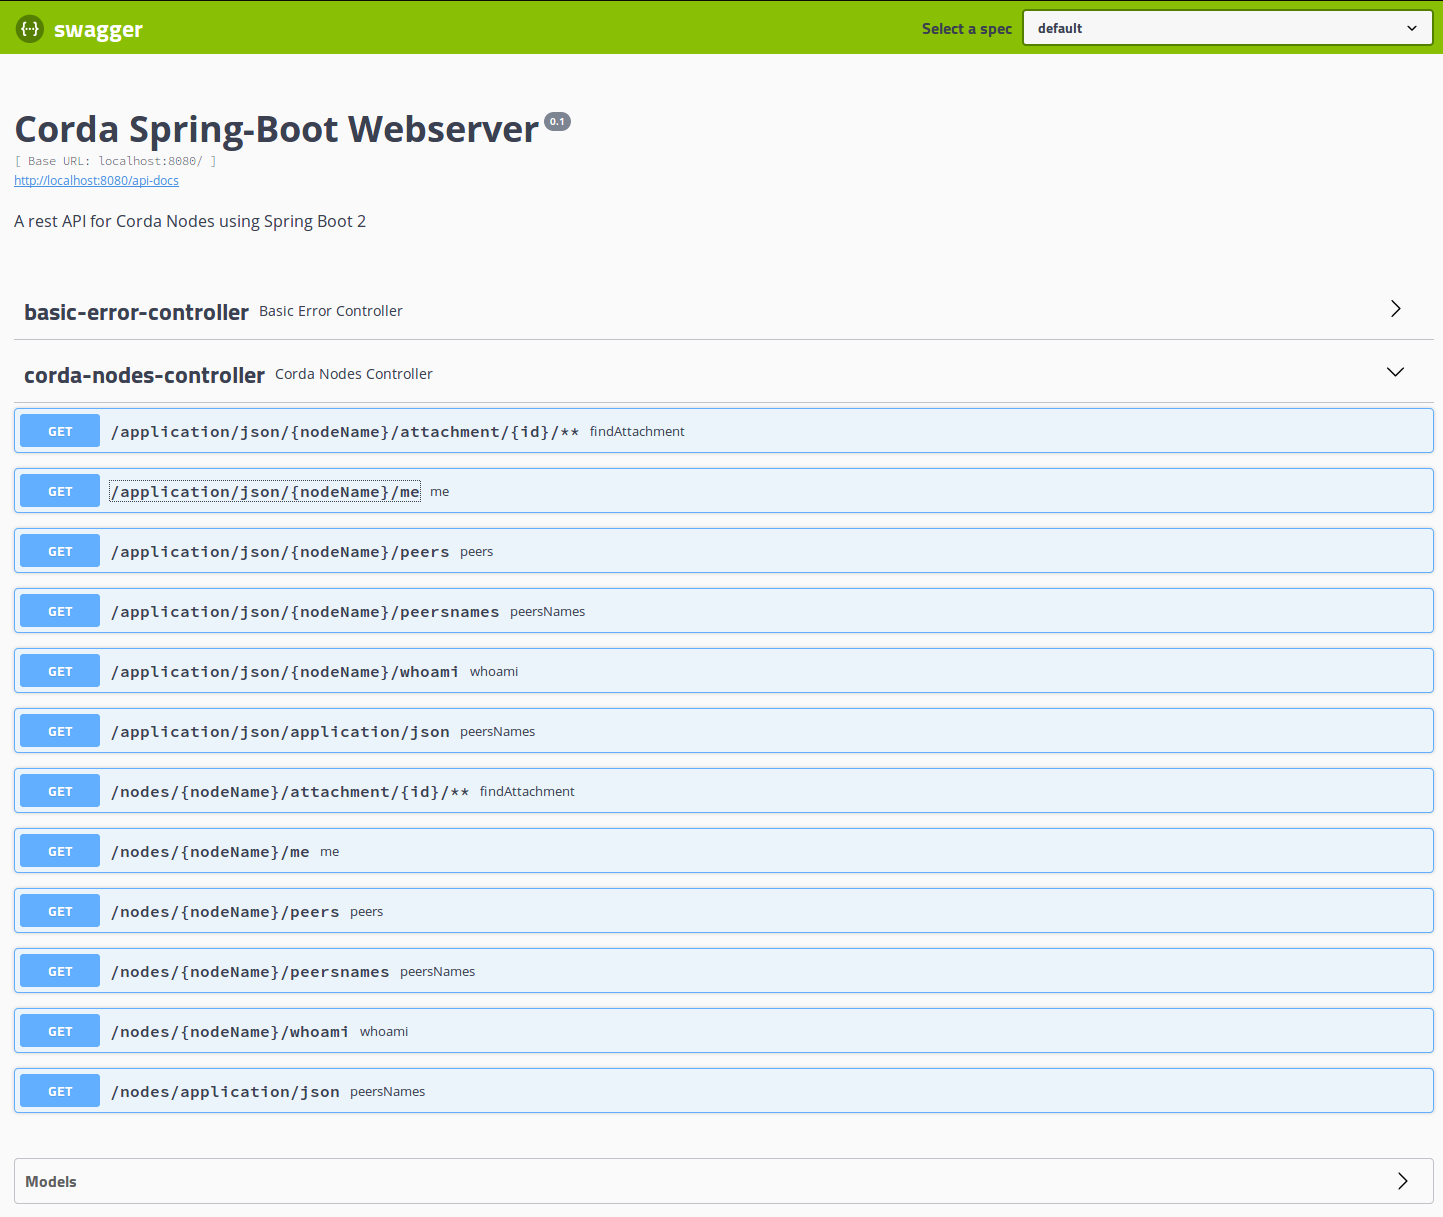
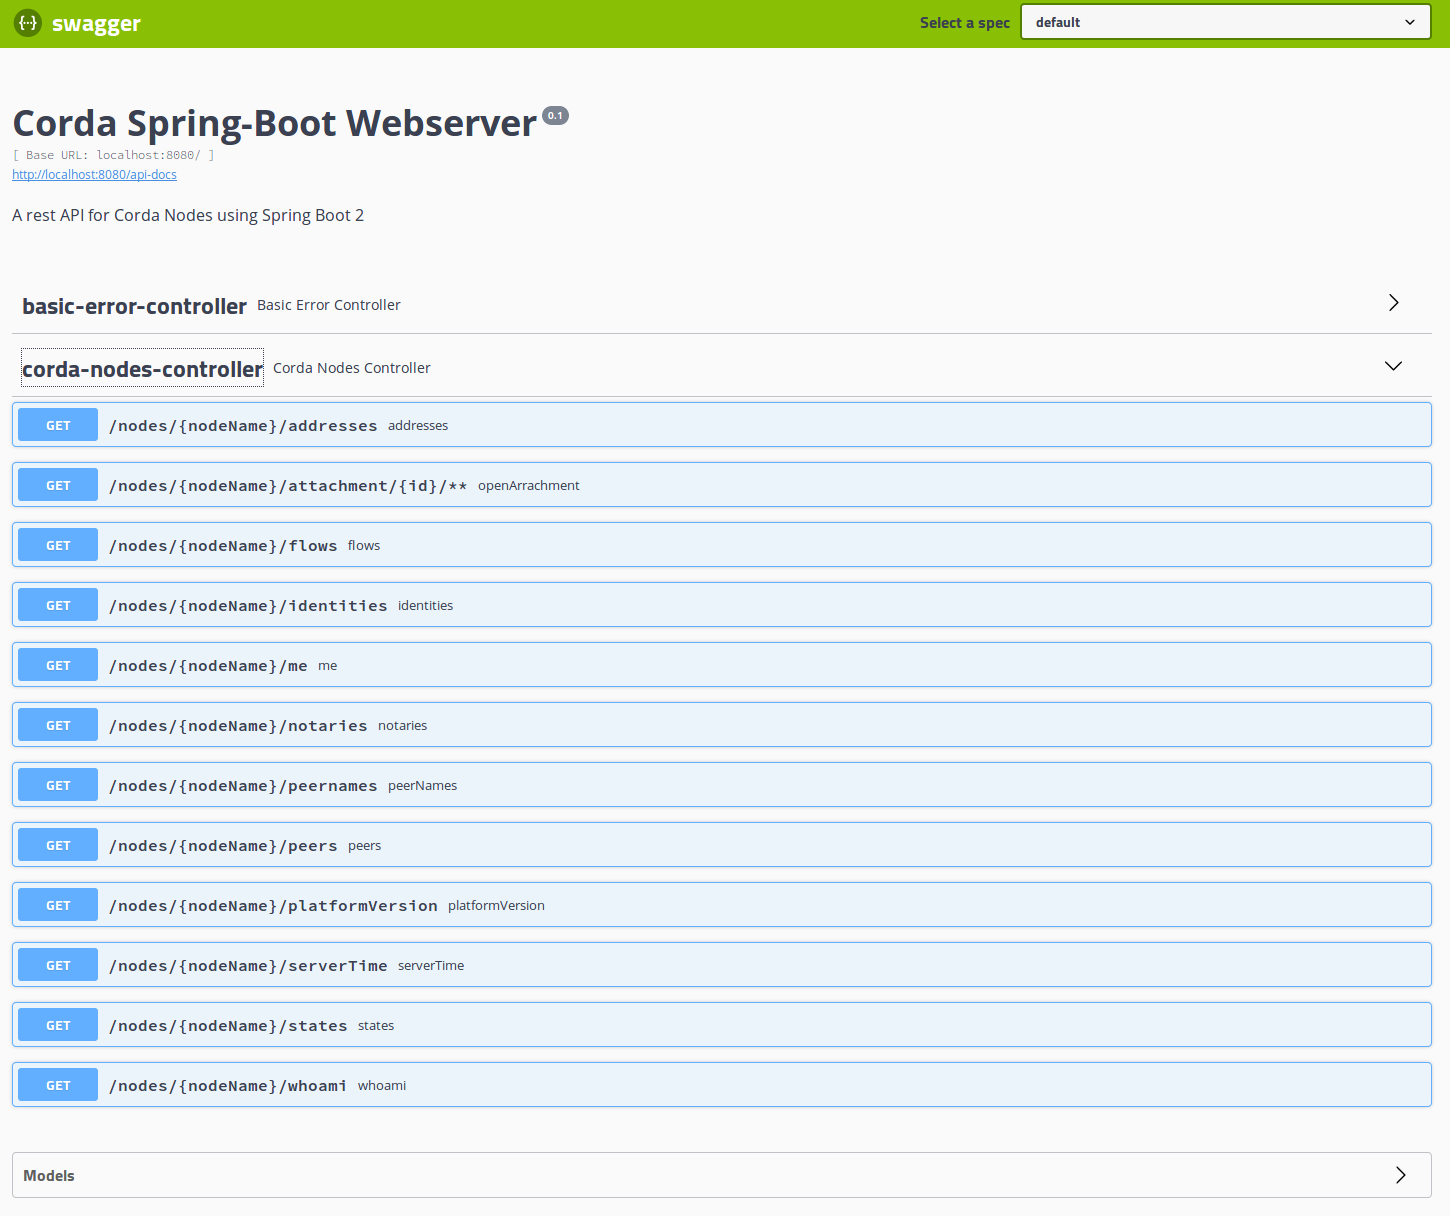
0.13

Changed region(s): [[0.0, 0.25, 0.9979, 1.0], [0.0, 0.0, 1.0, 0.0625], [0.0, 0.0938, 0.4054, 0.1875]]

diff --git a/corda-webserver-spring-boot/src/test/kotlin/com/github/manosbatsis/corda/webserver/spring/MultiNodeIntegrationTest.kt b/corda-webserver-spring-boot/src/test/kotlin/com/github/manosbatsis/corda/webserver/spring/MultiNodeIntegrationTest.kt
@@ -1,14 +1,18 @@
 package com.github.manosbatsis.corda.webserver.spring
 
 import com.github.manosbatsis.corda.spring.beans.CordaNodeService
+import net.corda.core.identity.Party
+import net.corda.core.utilities.NetworkHostAndPort
 import org.junit.jupiter.api.Assertions.assertNotNull
 import org.junit.jupiter.api.Test
 import org.junit.jupiter.api.extension.ExtendWith
 import org.slf4j.LoggerFactory
 import org.springframework.beans.factory.annotation.Autowired
+import org.springframework.beans.factory.annotation.Qualifier
 import org.springframework.boot.test.context.SpringBootTest
 import org.springframework.boot.test.web.client.TestRestTemplate
 import org.springframework.test.context.junit.jupiter.SpringExtension
+import kotlin.test.assertTrue
 
 @SpringBootTest(webEnvironment = SpringBootTest.WebEnvironment.RANDOM_PORT)
 @ExtendWith(SpringExtension::class)
@@ -20,11 +24,43 @@ class MultiNodeIntegrationTest(@Autowired val restTemplate: TestRestTemplate) {
     @Autowired
     lateinit var services: Map<String, CordaNodeService>
 
+    @Autowired
+    @Qualifier("partyANodeService")
+    lateinit var service: CordaNodeService
+
+    @Test
+    fun `Can inject services`() {
+        assertNotNull(this.services)
+        logger.info("Auto-configured RESTful services for Corda nodes:: {}", this.services.keys)
+        assertTrue(this.services.keys.isNotEmpty())
+    }
+
     @Test
     fun `Can retreive node identity`() {
-        logger.info("Auto-configured RESTful services for Corda nodes:: {}", this.services.keys)
-        val service = if (this.services.keys.isNotEmpty()) this.services.get(services.keys.first()) else null
-        assertNotNull(service)
+        val party = service.getMyIdentity()
+        logger.info("My identity: {}", party)
+        assertNotNull(service.getMyIdentity())
+    }
+
+    @Test
+    fun `Can retreive notaries`() {
+        val notaries: List<Party> = service.notaries()
+        logger.info("Notaries: {}", notaries)
+        assertNotNull(notaries)
+    }
+
+    @Test
+    fun `Can retreive flows`() {
+        val flows: List<String> = service.flows()
+        logger.info("Flows: {}", flows)
+        assertNotNull(flows)
+    }
+
+    @Test
+    fun `Can retreive addresses`() {
+        val addresses: List<NetworkHostAndPort> = service.addresses()
+        logger.info("Addresses: {}", addresses)
+        assertNotNull(addresses)
     }
 
 }

diff --git a/spring-corda-beans/src/main/kotlin/com/github/manosbatsis/corda/spring/beans/CordaNodesController.kt b/spring-corda-beans/src/main/kotlin/com/github/manosbatsis/corda/spring/beans/CordaNodesController.kt
@@ -42,7 +42,7 @@ open class CordaNodesController {
     }
 
     fun getService(nodeName: String): CordaNodeService =
-            this.services.get(nodeName) ?: throw IllegalArgumentException("Node not found: $nodeName")
+            this.services.get("${nodeName}NodeService") ?: throw IllegalArgumentException("Node not found: $nodeName")
 
     /** Returns the node's name. */
     @GetMapping("{nodeName}/me")
@@ -61,7 +61,7 @@ open class CordaNodesController {
     @GetMapping("{nodeName}/peernames")
     fun peerNames(@PathVariable nodeName: String) = this.getService(nodeName).peerNames()
 
-    /** Return thbe server time in UTC */
+    /** Return tbe node time in UTC */
     @GetMapping("{nodeName}/serverTime")
     fun serverTime(@PathVariable nodeName: String): LocalDateTime {
         return this.getService(nodeName).serverTime()

diff --git a/corda-webserver-spring-boot/src/main/kotlin/com/github/manosbatsis/corda/webserver/spring/config/SwaggerConfig.kt b/corda-webserver-spring-boot/src/main/kotlin/com/github/manosbatsis/corda/webserver/spring/config/SwaggerConfig.kt
@@ -1,7 +1,10 @@
 package com.github.manosbatsis.corda.webserver.spring.config
 
+import com.fasterxml.jackson.databind.SerializationFeature
+import net.corda.client.jackson.JacksonSupport
 import org.springframework.context.annotation.Bean
 import org.springframework.context.annotation.Configuration
+import org.springframework.http.converter.json.Jackson2ObjectMapperBuilder
 import org.springframework.web.servlet.config.annotation.WebMvcConfigurationSupport
 import springfox.documentation.builders.PathSelectors
 import springfox.documentation.builders.RequestHandlerSelectors
@@ -46,4 +49,5 @@ class SwaggerConfig: WebMvcConfigurationSupport() {
         return ApiInfoBuilder().title("Corda Spring-Boot Webserver")
                 .description("A rest API for Corda Nodes using Spring Boot 2").version("0.1").build()
     }
+
 }

diff --git a/corda-webserver-spring-boot/src/main/kotlin/com/github/manosbatsis/corda/webserver/spring/Application.kt b/corda-webserver-spring-boot/src/main/kotlin/com/github/manosbatsis/corda/webserver/spring/Application.kt
@@ -1,7 +1,11 @@
 package com.github.manosbatsis.corda.webserver.spring
 
+import com.fasterxml.jackson.databind.SerializationFeature
+import net.corda.client.jackson.JacksonSupport
 import org.springframework.boot.autoconfigure.SpringBootApplication
 import org.springframework.boot.runApplication
+import org.springframework.context.annotation.Bean
+import org.springframework.http.converter.json.Jackson2ObjectMapperBuilder
 
 
 /**
@@ -10,6 +14,7 @@ import org.springframework.boot.runApplication
 //@EnableAutoConfiguration
 @SpringBootApplication
 class Application
+
 
     fun main(args: Array<String>) {
         runApplication<Application>(*args)

diff --git a/README.md b/README.md
@@ -115,6 +115,20 @@ CordaNodeService   | {nodeName}NodeService     | A Node Service Bean
 A controller is also added with endpoints exposing business methods for all 
 listing identity, network peers, notaries, flows, states, finding attachments etc.
 
+Method | Path                                    | Description
+------ | --------------------------------------- | -------------------
+GET    | /nodes/{nodeName}/serverTime            | Return tbe node time in UTC
+GET    | /nodes/{nodeName}/whoami                | Returns the Node identity's name
+GET    | /nodes/{nodeName}/me                    | Returns the Node identity's x500Principal name
+GET    | /nodes/{nodeName}/peers                 | Returns a list of the node's network peers
+GET    | /nodes/{nodeName}/peersnames            | Returns a list of the node's network peer names
+GET    | /nodes/{nodeName}/peersnames            | Returns a list of node's network peer names
+GET    | /nodes/{nodeName}/attachment/{id}       | Returns the attachment mathing the given ID
+GET    | /nodes/{nodeName}/addresses             | Returns a list of node addresses 
+GET    | /nodes/{nodeName}/notaries              | Returns a list of notaries in node's network
+GET    | /nodes/{nodeName}/states                | Returns a list of states
+GET    | /nodes/{nodeName}/states                | Returns a list of flow classnames
+
 ## Corda Webserver Boot
 
 The corda-webserver-spring-boot module implements a replacement to Corda's default
@@ -122,4 +136,4 @@ Node webserver. Run the server passing command line arguments to configured the 
 and browse [/swagger-ui.html](http://localhost:8080/swagger-ui.html) to view the available endpoints documentation
 generated by swagger.
 
-<!--img src ="etc/img/corda-webserver-spring-boot-swagger.png" alt="Corda Webserver Boot'sSwagger UI" /-->
+<img src ="etc/img/corda-webserver-spring-boot-swagger.png" alt="Corda Webserver Boot'sSwagger UI" />
